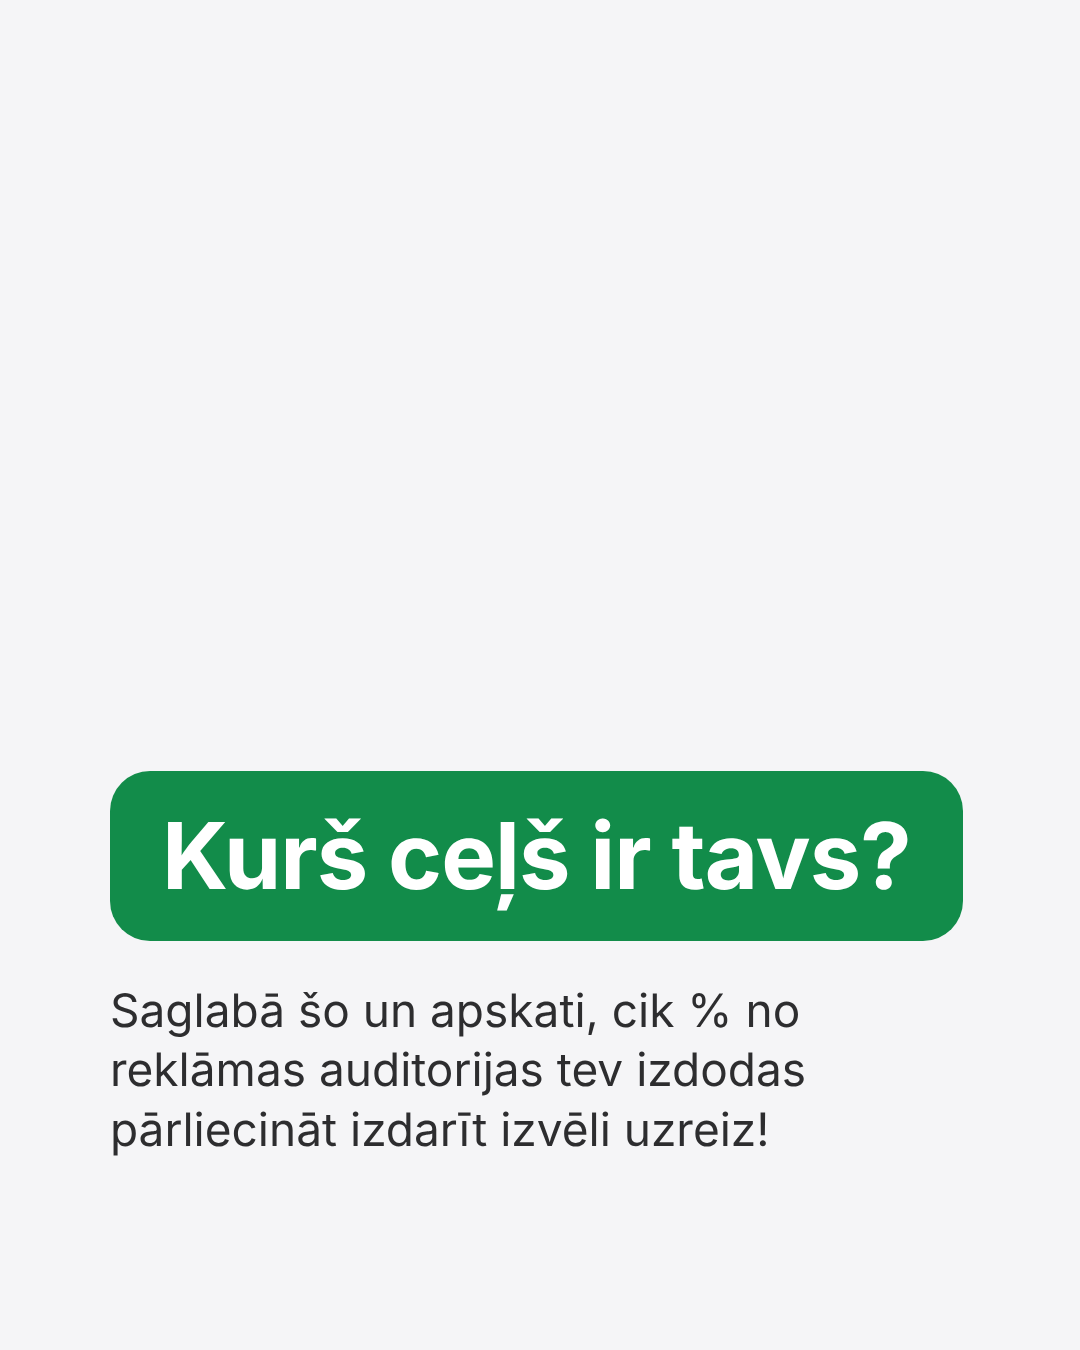
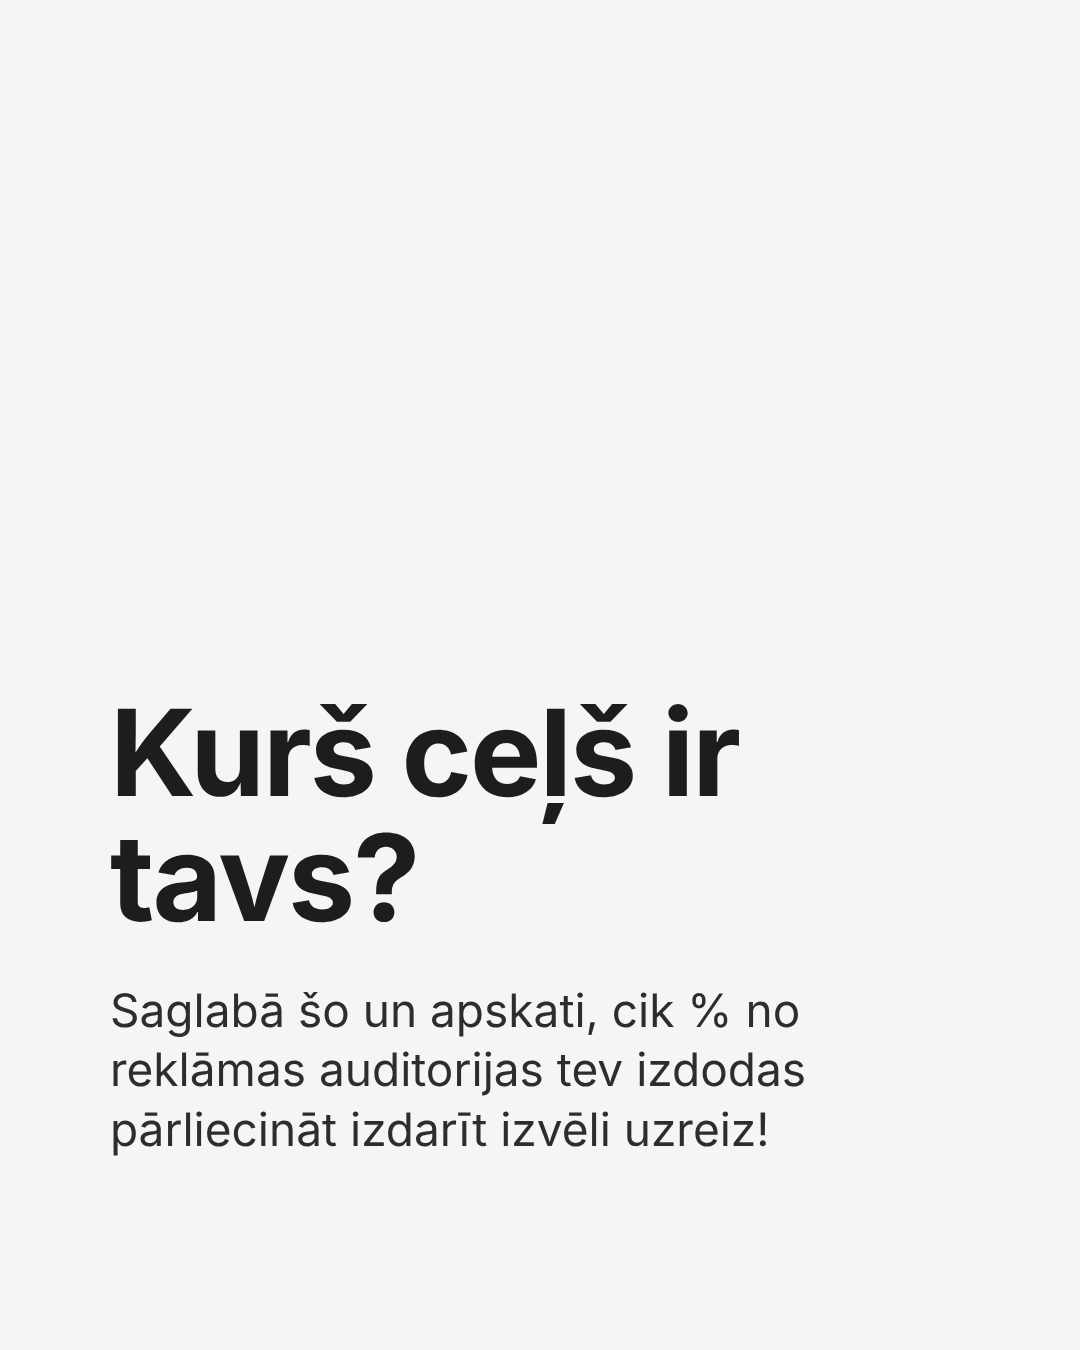
Funnel v3 closing slide: large plain headline above subline
Claude-Session: https://claude.ai/code/session_01BfJAaEZY2EfD7nu2Y1Q1pB

Changed region(s): [[0.0917, 0.4978, 0.9167, 0.7156]]

diff --git a/brand/zimols/render.js b/brand/zimols/render.js
@@ -79,7 +79,8 @@ function slide(s) {
       ${s.footer ? `<div class="footer">${s.footer}</div>` : ''}</div></div>`;
   }
   if (s.type === 'question') {
-    return `<div class="s bg-${s.bg || 'paper'}"><div class="pad"><div class="qpill">${s.headline}</div>${s.sub ? `<div class="sub" style="margin-top:40px">${s.sub}</div>` : ''}</div></div>`;
+    const head = s.plain ? `<div class="display" style="font-size:${s.headlineSize || 120}px">${s.headline}</div>` : `<div class="qpill">${s.headline}</div>`;
+    return `<div class="s bg-${s.bg || 'paper'}"><div class="pad">${head}${s.sub ? `<div class="sub" style="margin-top:40px">${s.sub}</div>` : ''}</div></div>`;
   }
   throw new Error('unknown slide type ' + s.type);
 }
